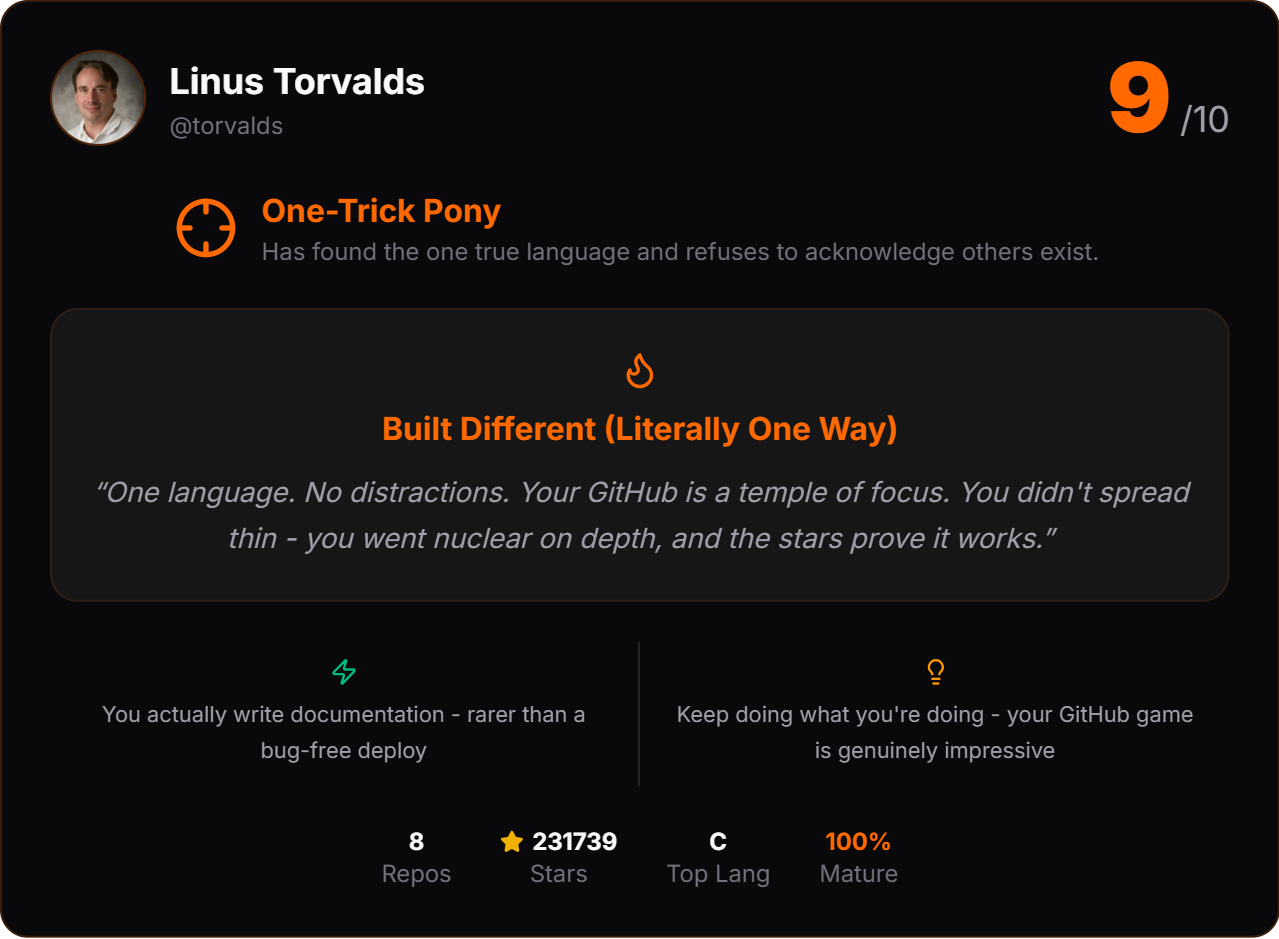
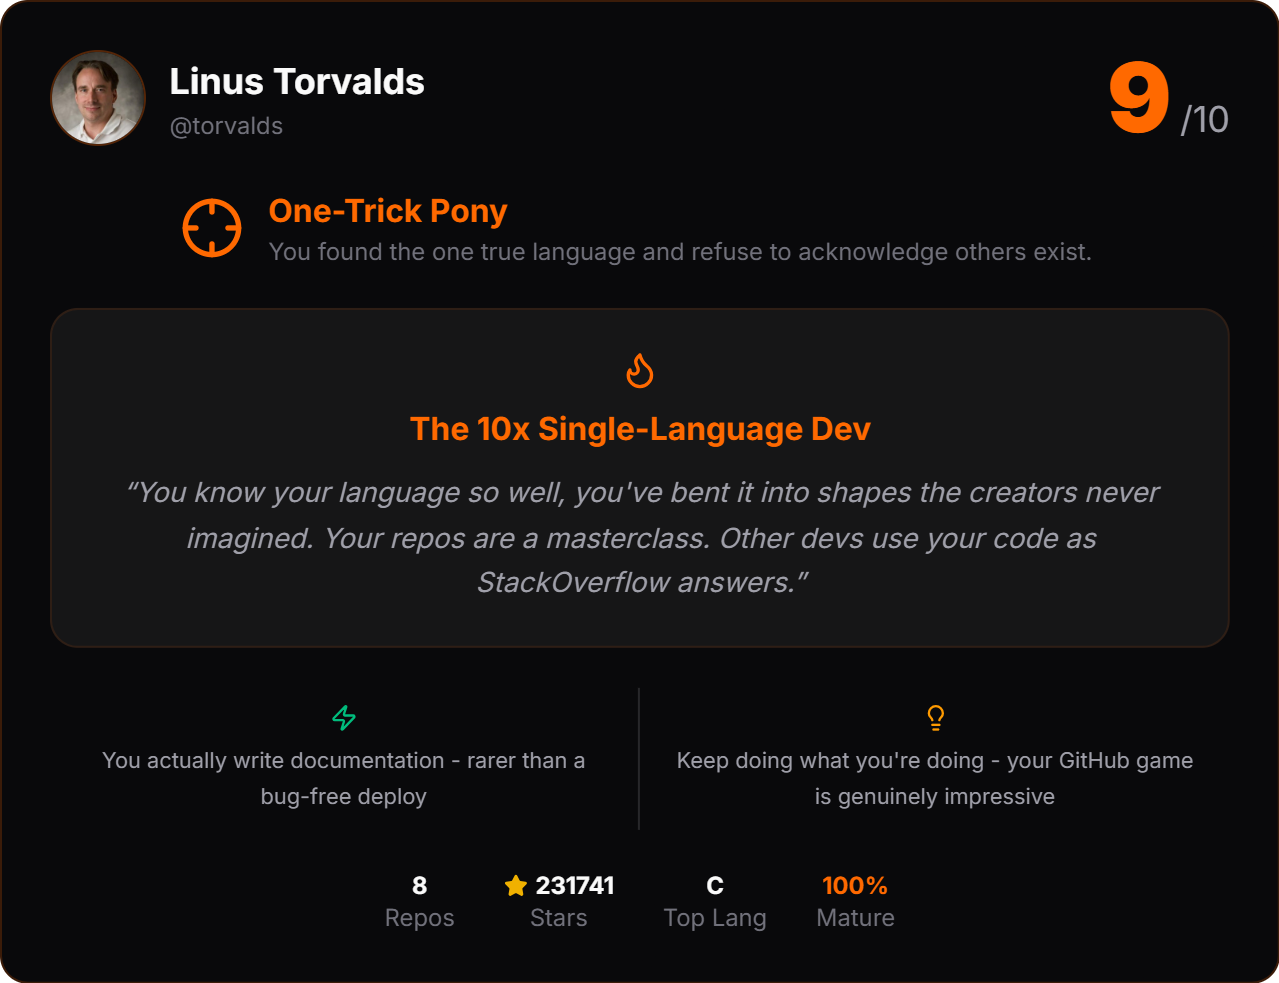
refactor(personalityEngine): personalize archetype descriptions with direct address
- Changed archetype descriptions to use second-person "you" phrasing
- Enhanced engagement by making descriptions more personal and relatable
- Kept existing scoring logic unchanged
- Updated multiple archetypes including Experimenter, Indie Hacker, and Polyglot

diff --git a/lib/personalityEngine.ts b/lib/personalityEngine.ts
@@ -27,7 +27,7 @@ const archetypeDefinitions: ArchetypeDefinition[] = [
     name: "The Experimenter",
     icon: "flask-conical",
     description:
-      "Launches repos like fireworks - bright, fast, and all over the sky.",
+      "You launch repos like fireworks - bright, fast, and all over the sky.",
     score: (m) => {
       let s = 0;
       if (m.totalRepos > HIGH_REPO_COUNT) s += 40;
@@ -42,7 +42,7 @@ const archetypeDefinitions: ArchetypeDefinition[] = [
     name: "Indie Hacker",
     icon: "rocket",
     description:
-      "Ships products, slaps on a demo link, and moves to the next big idea.",
+      "You ship products, slap on a demo link, and move to the next big idea.",
     score: (m) => {
       let s = 0;
       if (m.totalRepos >= MEDIUM_REPO_COUNT && m.totalRepos <= HIGH_REPO_COUNT)
@@ -57,7 +57,7 @@ const archetypeDefinitions: ArchetypeDefinition[] = [
     name: "Tutorial Collector",
     icon: "book-open",
     description:
-      "Has a repo for every tutorial ever watched. Completion rate: optional.",
+      "You have a repo for every tutorial ever watched. Completion rate: optional.",
     score: (m) => {
       let s = 0;
       if (m.totalRepos > HIGH_REPO_COUNT) s += 30;
@@ -71,7 +71,7 @@ const archetypeDefinitions: ArchetypeDefinition[] = [
     name: "Open Source Monk",
     icon: "heart-handshake",
     description:
-      "Fewer repos, but each one is a temple of clean code and consistent commits.",
+      "Fewer repos, but each one is your temple of clean code and consistent commits.",
     score: (m) => {
       let s = 0;
       if (m.totalRepos < MEDIUM_REPO_COUNT) s += 15;
@@ -86,7 +86,7 @@ const archetypeDefinitions: ArchetypeDefinition[] = [
     name: "Overengineer Supreme",
     icon: "settings",
     description:
-      "Builds a rocket ship to go to the grocery store. Impressive, but why?",
+      "You build a rocket ship to go to the grocery store. Impressive, but why?",
     score: (m) => {
       let s = 0;
       if (m.engagementScore < 3 && m.totalRepos < LARGE_AVG_SIZE_INDICATOR)
@@ -101,7 +101,7 @@ const archetypeDefinitions: ArchetypeDefinition[] = [
     name: "The Polyglot",
     icon: "globe",
     description:
-      "Speaks more programming languages than most people speak human ones.",
+      "You speak more programming languages than most people speak human ones.",
     score: (m) => {
       let s = 0;
       if (m.languageDiversity.uniqueLanguages >= POLYGLOT_THRESHOLD) s += 40;
@@ -116,7 +116,7 @@ const archetypeDefinitions: ArchetypeDefinition[] = [
     name: "One-Trick Pony",
     icon: "crosshair",
     description:
-      "Has found the one true language and refuses to acknowledge others exist.",
+      "You found the one true language and refuse to acknowledge others exist.",
     score: (m) => {
       let s = 0;
       if (m.languageDiversity.dominantLanguageRatio > ONE_TRICK_RATIO) s += 40;
